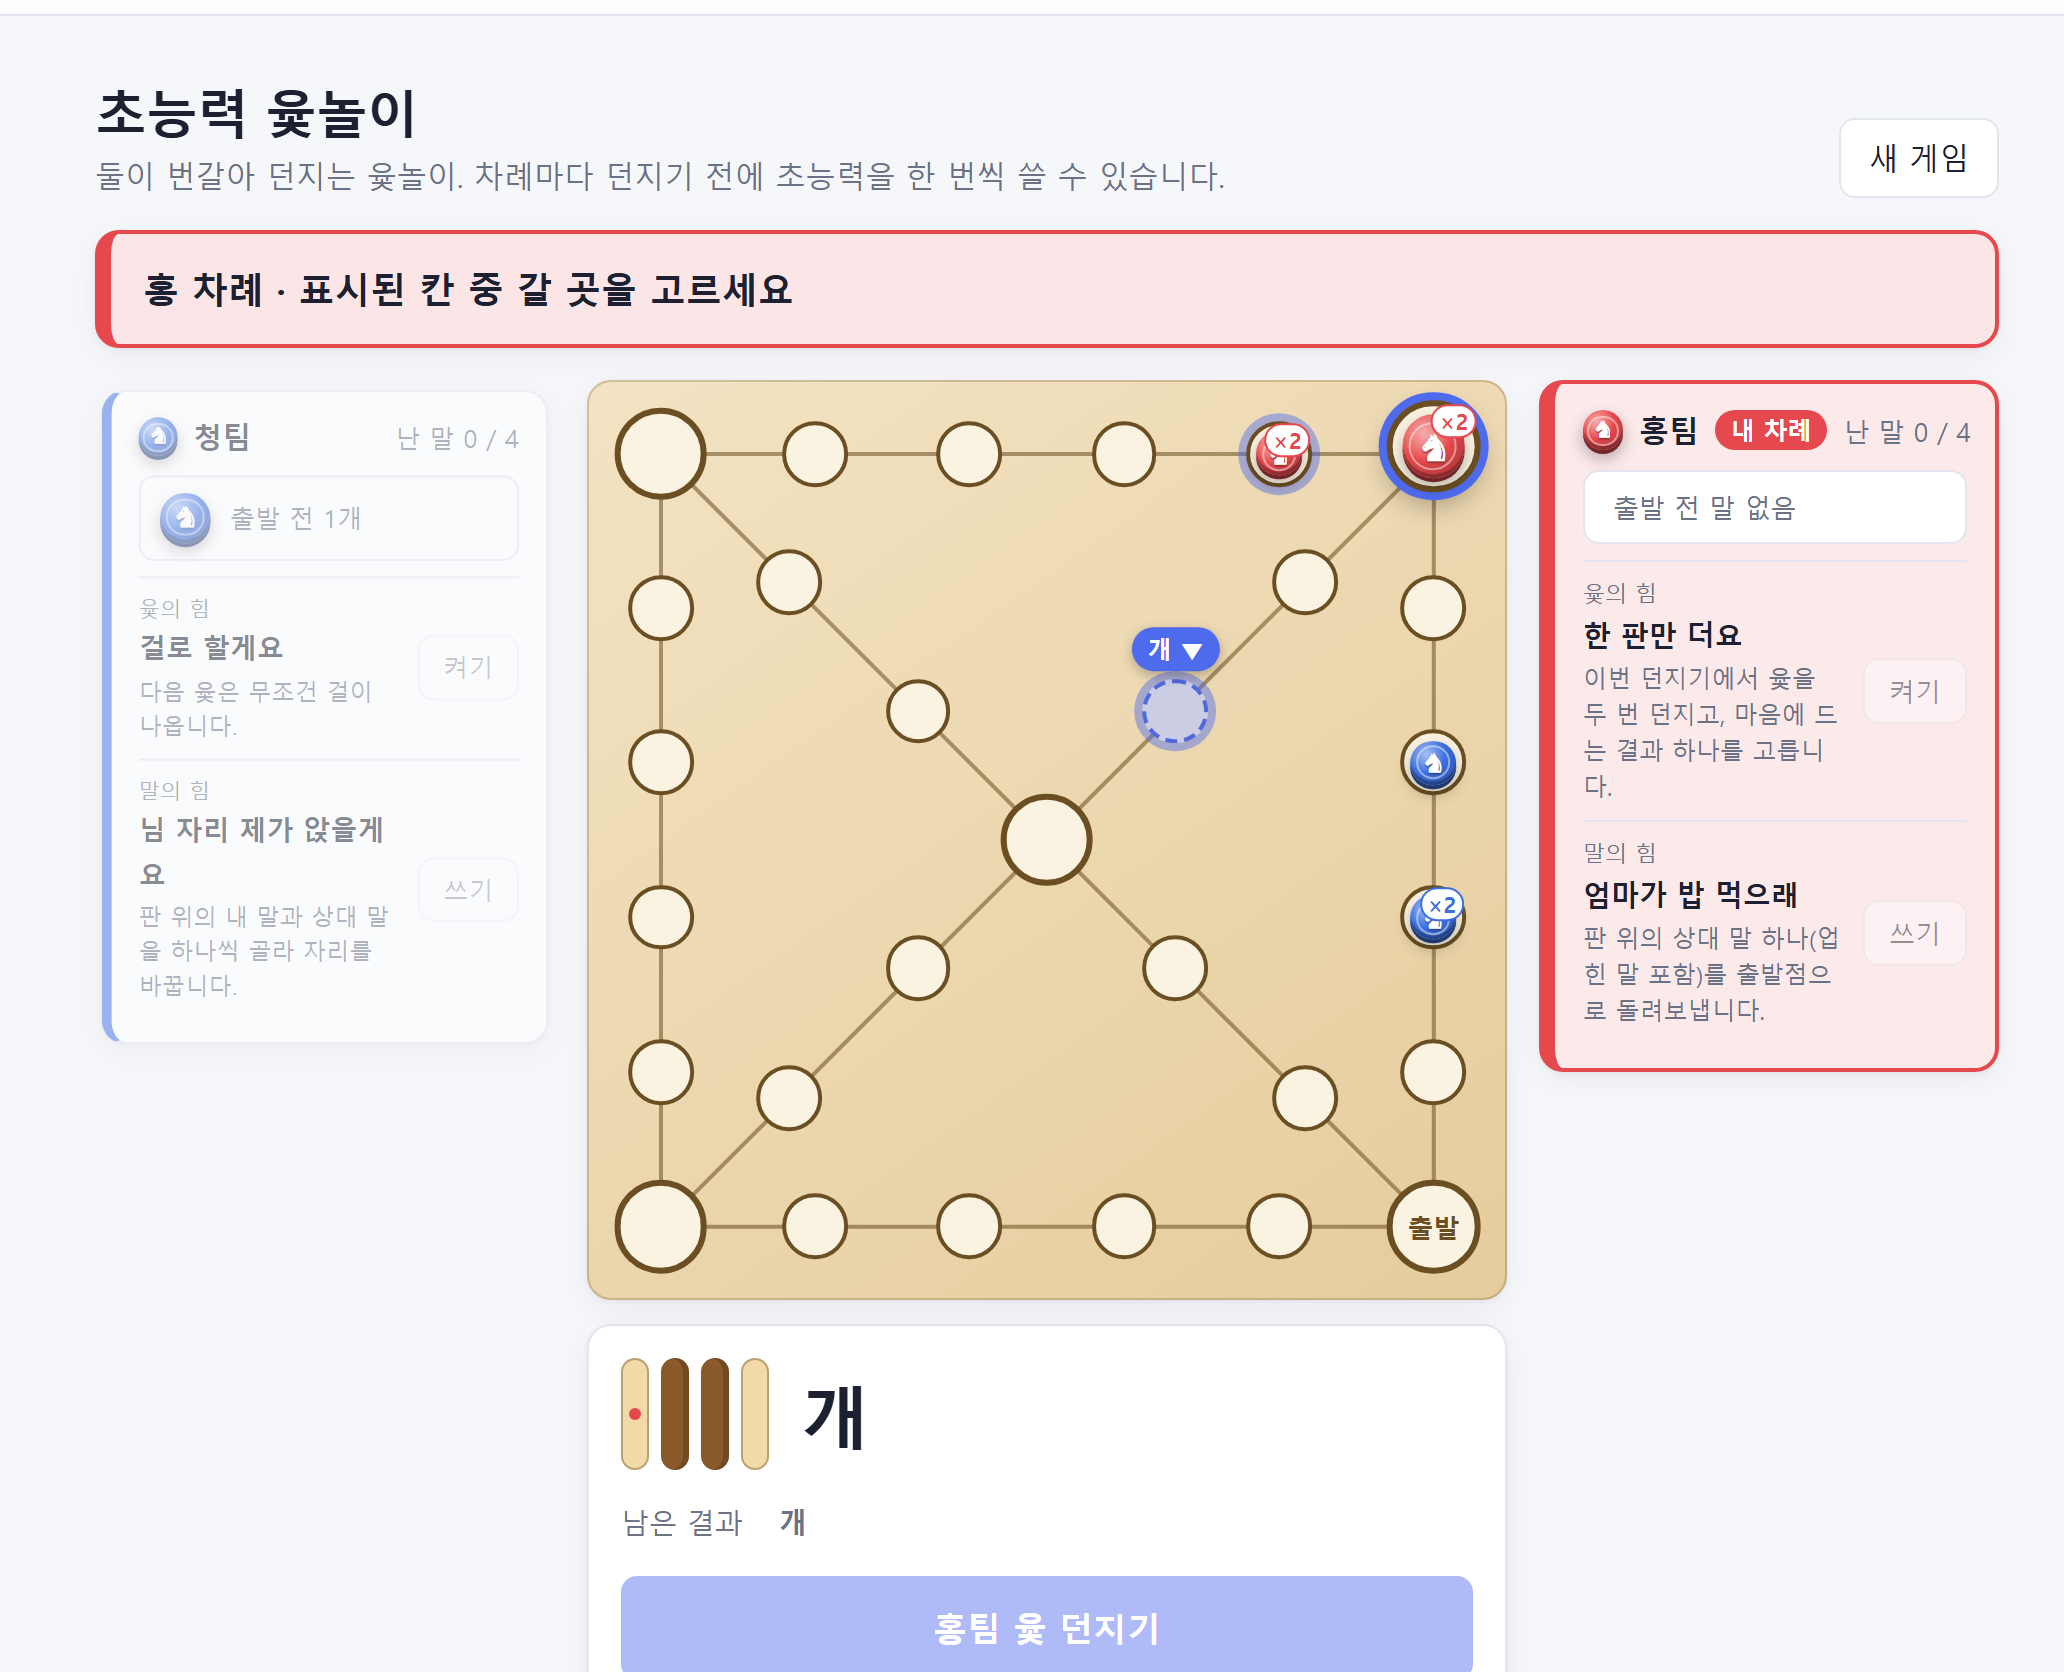
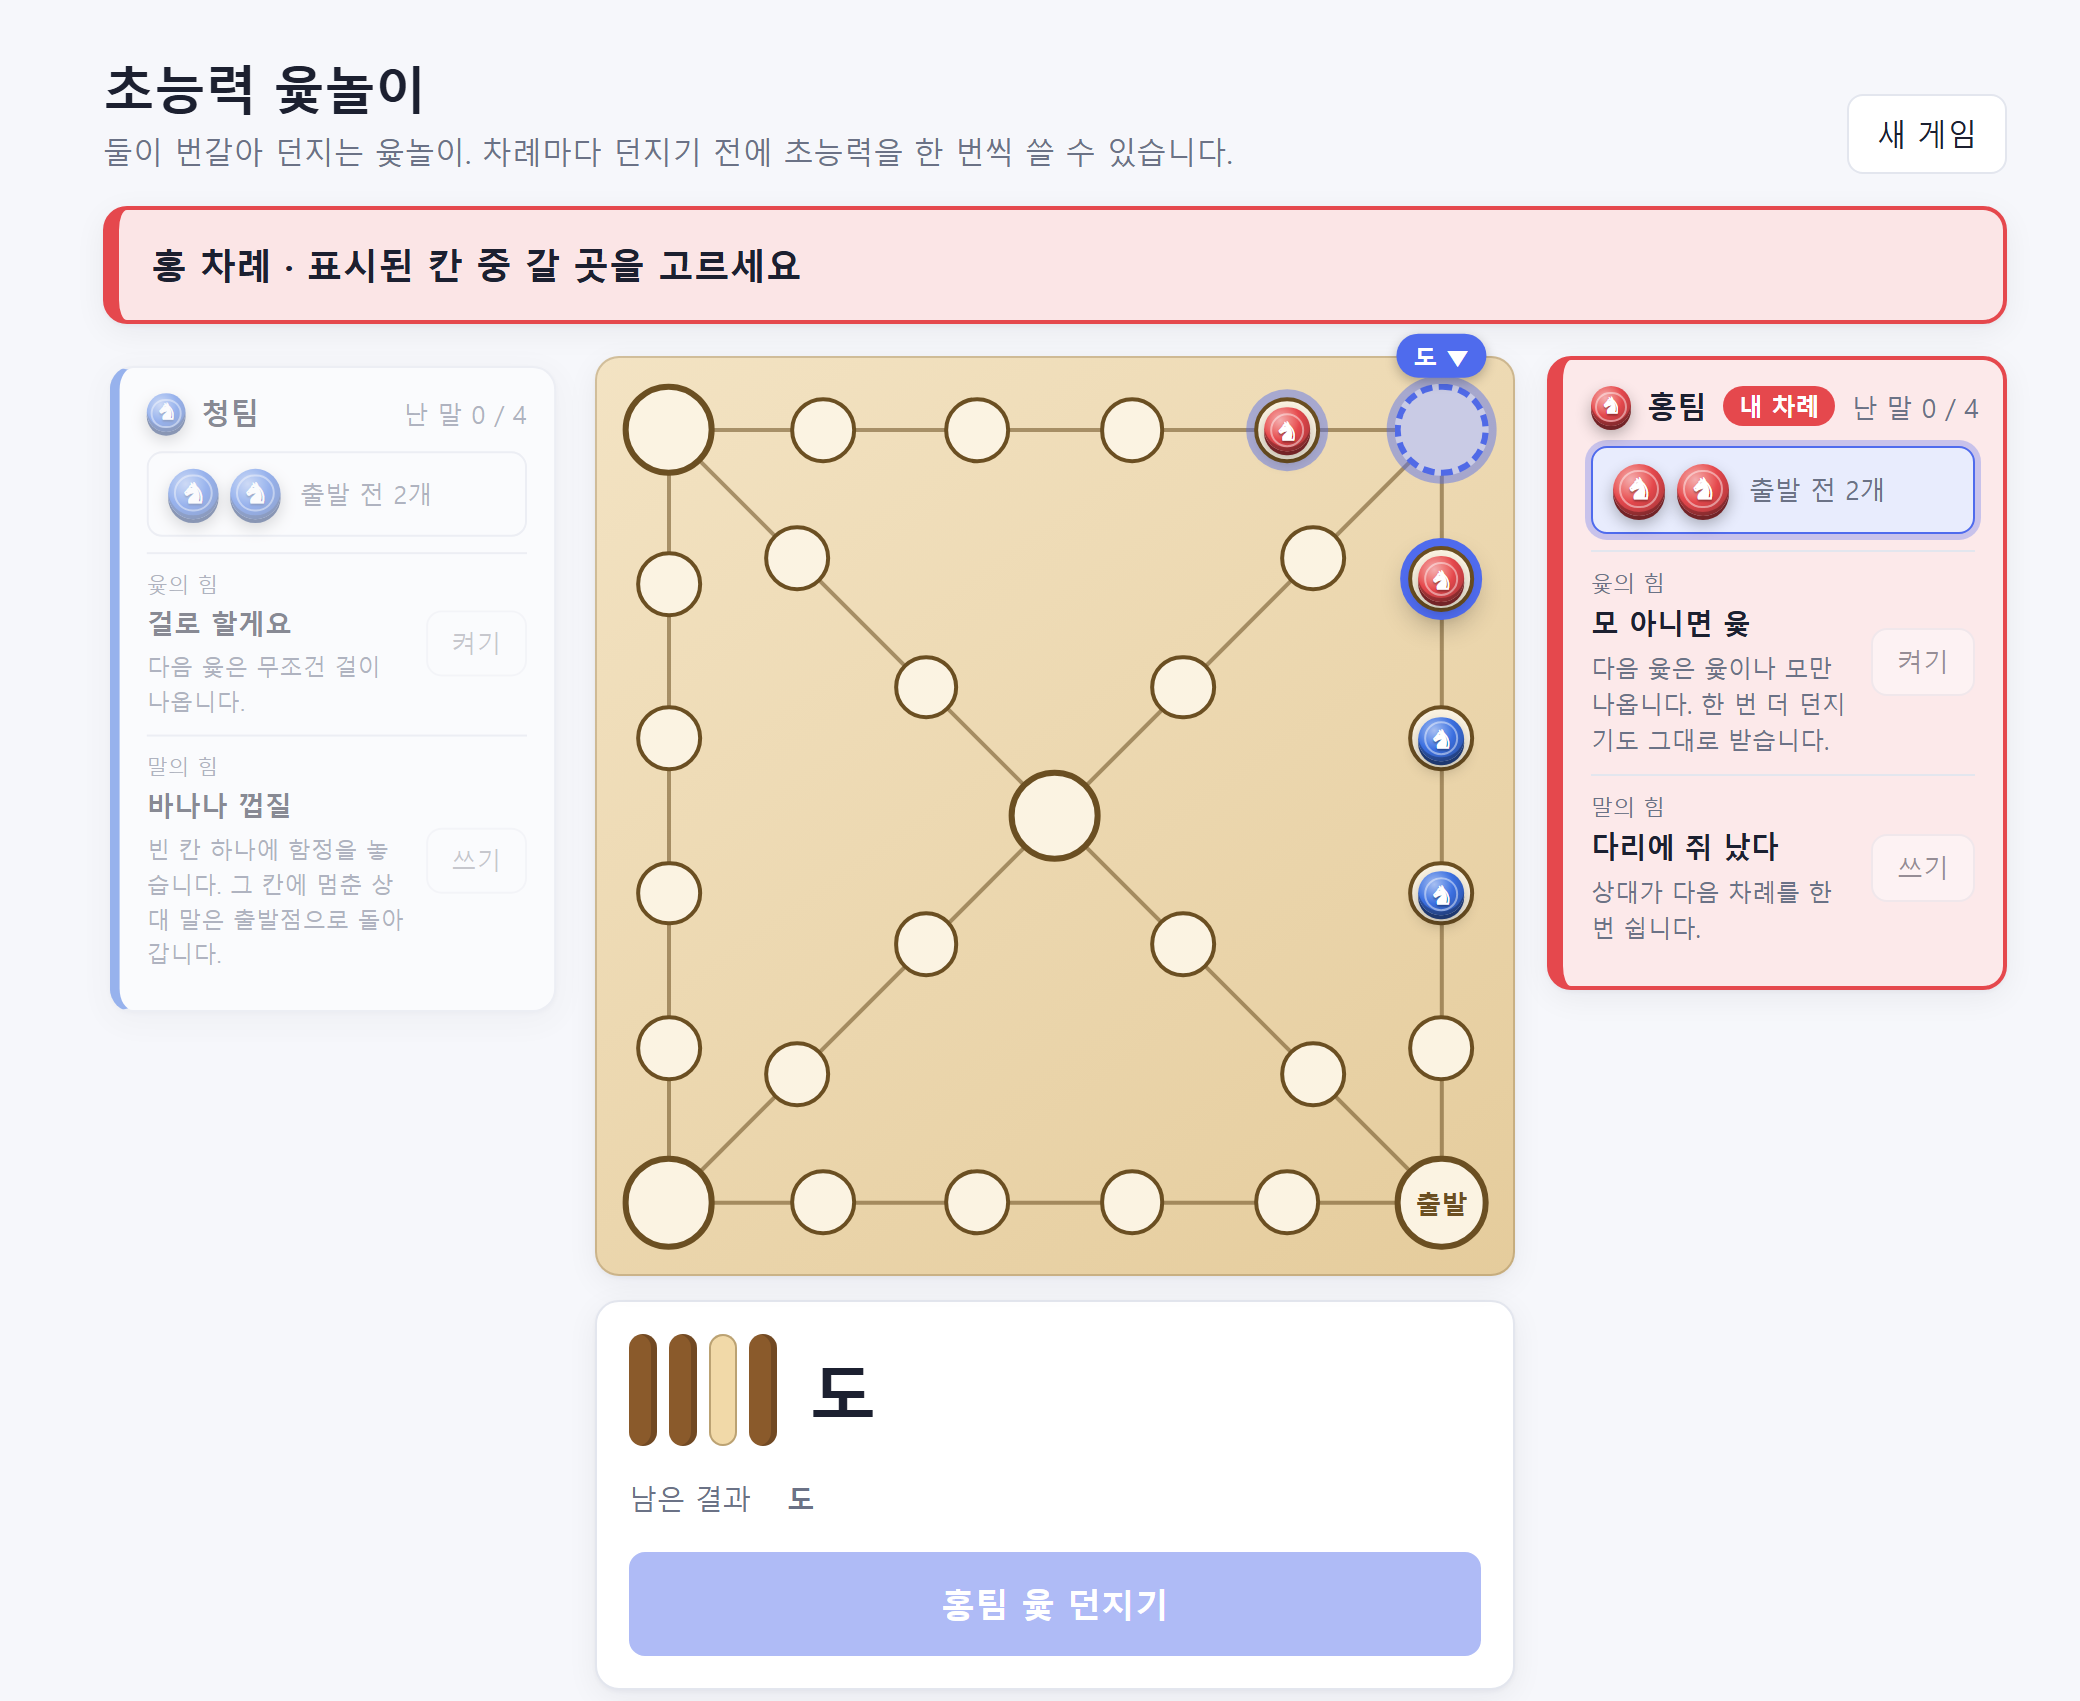
docs(react): README 구성도 · 스크린샷 다시 만들기, 성능 측정 공정하게 수정
- 구성도: 처음 그리기(mount)와 업데이트(update)로 나누고 단계마다 쉬운 설명,
  diff(이전 VDOM, 새 VDOM) · patch(실제 DOM, 패치 트리)처럼 인자까지 표기
- 스크린샷: Phase 1은 Patch 후 화면 + diff 결과, Phase 2는 지금 화면(갈 칸 표시)
- README: 용어 정리 추가, Hook 예시를 실제 코드와 같게, 성능 표 머리글 정리
- bench: innerHTML만 문자열 생성 시간이 포함되던 것을 고치고 다시 측정 (약 10배)
- DETAILS: 테스트 표를 275개 기준으로, 없는 games.js 삭제, 측정값 갱신

diff --git a/projects/react/tests/bench.js b/projects/react/tests/bench.js
@@ -56,10 +56,11 @@ function scenario(name, before, after, { keyed = true } = {}) {
   document.body.appendChild(box);
   const oldV = view(before, keyed);
   const newV = view(after, keyed);
+  const newHtml = html(after); // 세 방법 모두 "새 화면 데이터(VDOM · 문자열)는 이미 있음"에서 시작한다
   const methods = {
     "diff + patch": () => patch(box, diff(oldV, newV)),
     "createElement 통째로": () => box.replaceChildren(createElement(newV)),
-    "innerHTML 통째로": () => (box.innerHTML = html(after)),
+    "innerHTML 통째로": () => (box.innerHTML = newHtml),
   };
   const result = { name, ms: {}, mutations: {} };
   for (const [m, run] of Object.entries(methods)) {

diff --git a/projects/react/src/core/component.js b/projects/react/src/core/component.js
@@ -266,7 +266,7 @@ function expand(node) {
     } finally {
       childDepth--;
     }
-    // h(TodoItem, { key }) 의 key를 컴포넌트가 돌려준 요소에 옮겨 붙인다. diff는 요소만 보므로 여기 있어야 짝지어진다
+    // h(Item, { key }) 의 key를 컴포넌트가 돌려준 요소에 옮겨 붙인다. diff는 요소만 보므로 여기 있어야 짝지어진다
     const isElement = out !== null && typeof out === "object" && !Array.isArray(out);
     if (key != null && isElement && out.props.key == null) out = { ...out, props: { ...out.props, key } };
     return out;

diff --git a/projects/react/docs/DETAILS.md b/projects/react/docs/DETAILS.md
@@ -61,11 +61,10 @@ projects/react/
 │   ├── app/
 │   │   ├── App.js               루트 컴포넌트 (모든 State가 여기에)
 │   │   ├── main.js              App을 #root에 mount
-│   │   └── yut.js               윷놀이 규칙 + 초능력 (순수 함수: action 목록 → 판 · 차례 · 승자)
-│   │   ├── games.js             두 게임을 같은 모양(size · cols · play · check)으로 묶은 목록
+│   │   ├── yut.js               윷놀이 규칙 + 초능력 (순수 함수: action 목록 → 판 · 차례 · 승자)
 │   │   └── components/          PowerPick, YutBoard, ThrowPanel, TeamPanel, YutLog, ConfirmDialog (전부 Stateless)
 │   └── styles/style.css
-└── tests/                       *.test.html / *.test.js
+└── tests/                       *.test.html / *.test.js (단위 테스트), bench.html / bench.js (성능 측정)
 ```
 
 ---
@@ -330,7 +329,7 @@ sequenceDiagram
   F->>A: useEffect 실행 (탭 제목, 기보 스크롤)
 ```
 
-**전체를 다시 그리지 않습니다.** App은 화면 전체(요소 112개)를 매번 새 VDOM으로 만들지만, 말 하나를 옮길 때 실제 DOM 작업은 **노드 7개 생성 + 값 19개 수정**뿐인 것을 `MutationObserver`로 확인했습니다 (도착 칸의 말, 갈 칸 표시 해제, 상황 글자, 기보 한 줄, 팀 패널의 말 수). 렌더링 한 번(App 실행 + diff + patch)은 1.2~2.6 ms입니다 (`tests/bench.html`).
+**전체를 다시 그리지 않습니다.** App은 화면 전체(요소 112개)를 매번 새 VDOM으로 만들지만, 말 하나를 옮길 때 실제 DOM 작업은 **노드 7개 생성 + 값 19개 수정**뿐인 것을 `MutationObserver`로 확인했습니다 (도착 칸의 말, 갈 칸 표시 해제, 상황 글자, 기보 한 줄, 팀 패널의 말 수). 렌더링 한 번(App 호출 + diff + patch)은 약 2~3 ms입니다 (`tests/bench.html`).
 
 ---
 
@@ -341,13 +340,17 @@ sequenceDiagram
 | 파일 | 개수 | 내용 |
 |---|---|---|
 | `vdom.test` | 39 | h, domToVdom, createElement, 속성 적용, 이벤트, SVG, ref |
-| `diff.test` | 40 | 5가지 케이스, patch, key, **약속 테스트** |
-| `hooks.test` | 24 | FunctionComponent, useState(Batching), useEffect, useMemo, useRef, Hook 규칙 |
+| `diff.test` | 56 | 5가지 케이스, patch, key, **모든 쌍 테스트**, 무작위(퍼즈) 테스트 |
+| `hooks.test` | 37 | FunctionComponent, useState(Batching), useEffect, useMemo, useRef, Hook 규칙, 무작위 state 변경 |
 | `htmlText.test` | 7 | HTML ↔ VDOM 왕복 |
 | `history.test` | 6 | 뒤로 / 앞으로 / 기록 자르기 |
-| **합계** | **116** | |
+| `yut.test` | 24 | 윷놀이 규칙 (지름길 · 업기 · 잡기 · 나기 · 초능력), 앱 화면 흐름 |
+| `ported.test` | 106 | 팀원(김준우 님) 테스트 중 형식만 달라 실패한 것을 같은 상황 그대로 옮긴 것 |
+| **합계** | **275** | |
 
-### 약속 테스트: "patch한 결과 = 처음부터 새로 그린 결과"
+성능 측정(`tests/bench.html`)은 테스트와 따로 있습니다. 결과는 README의 "핵심 설계 ④"에 있습니다.
+
+### 모든 쌍 테스트: "patch한 결과 = 처음부터 새로 그린 결과"
 
 사례를 하나씩 적는 대신, **VDOM 샘플 36개의 모든 쌍**(36 × 36 = 1,296가지 전환)에 대해 아래를 자동으로 확인합니다.
 
